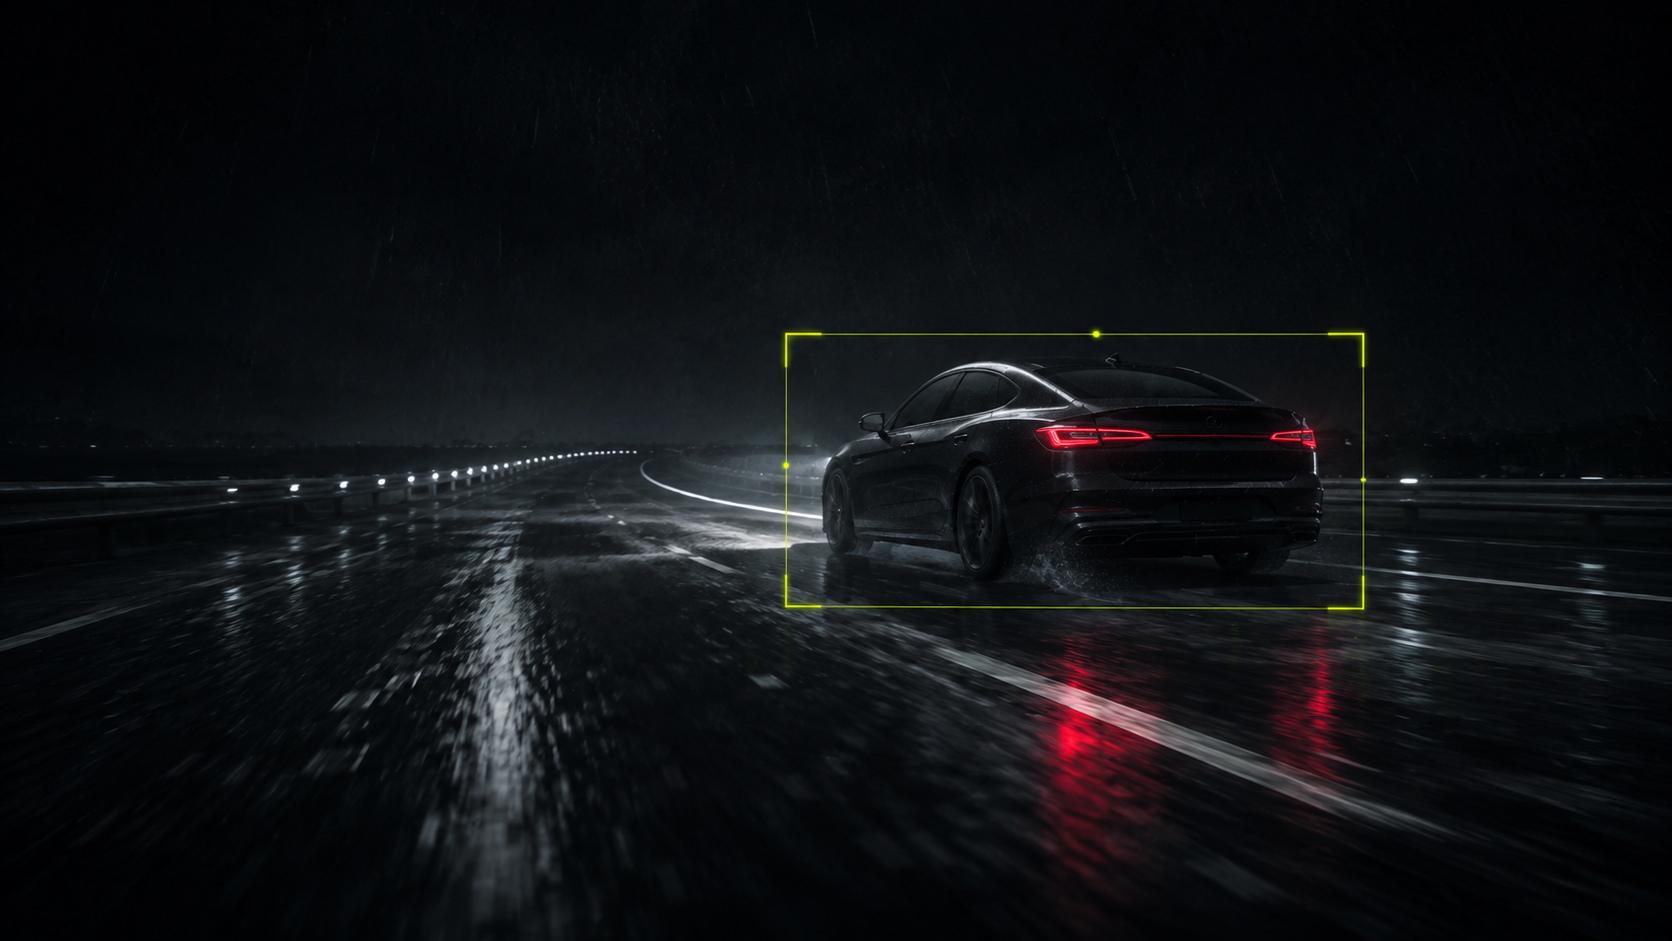
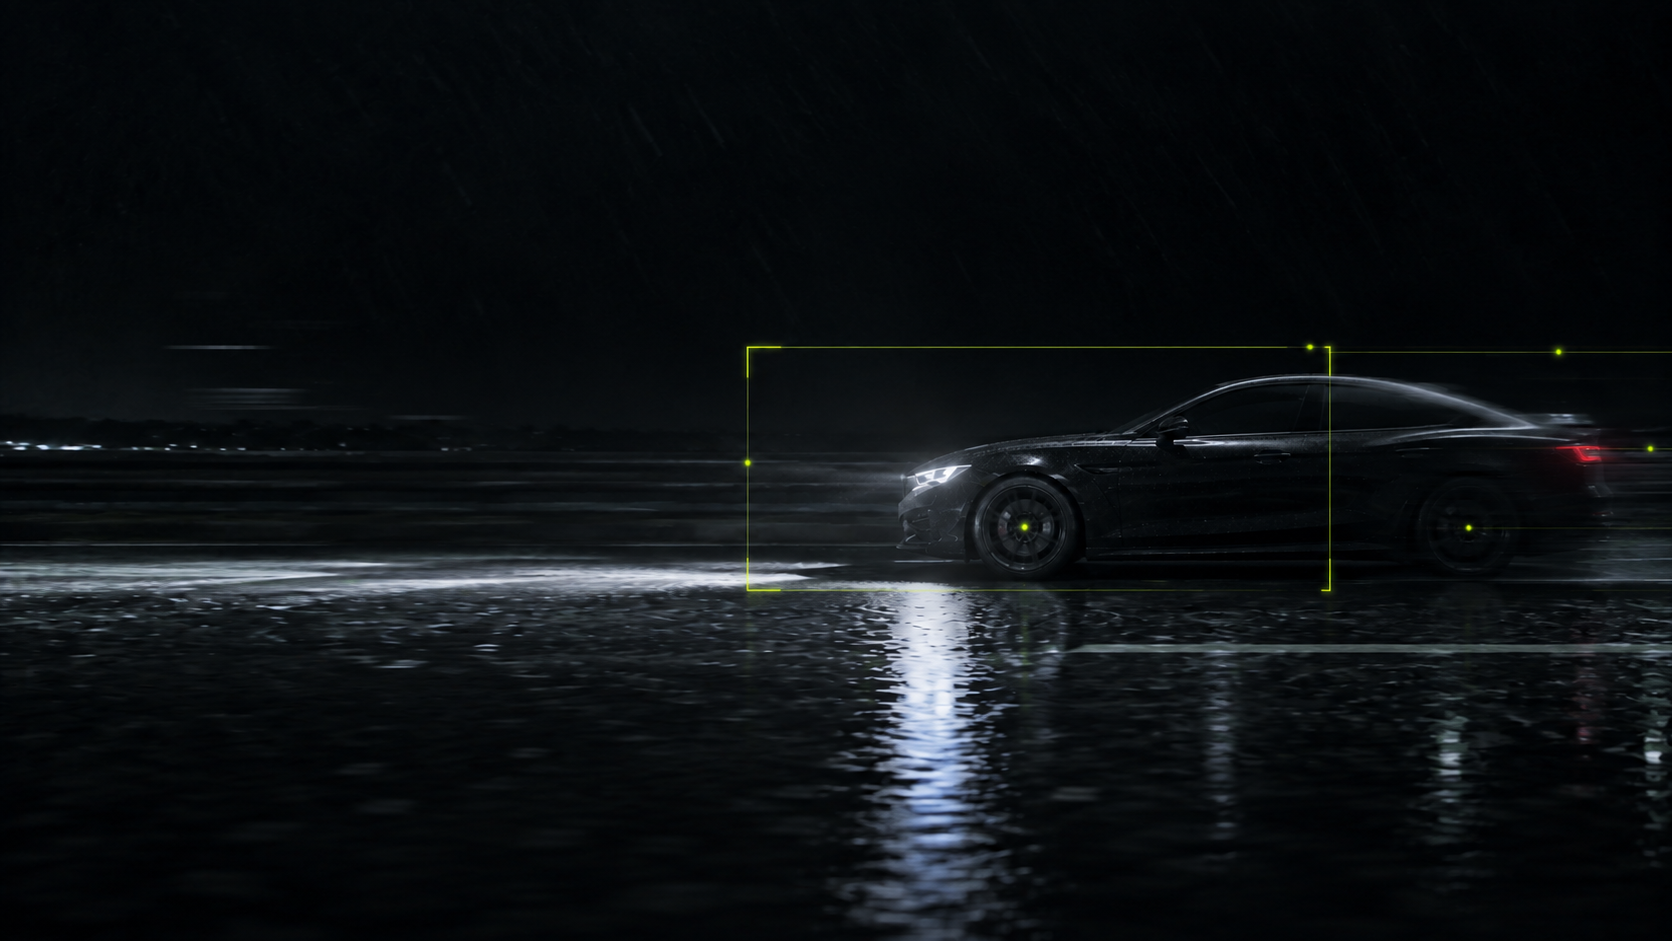
Make cinematic keyframes sequential

diff --git a/creative/linkedin-cinematic/README.md b/creative/linkedin-cinematic/README.md
@@ -1,20 +1,28 @@
 # The Last Known Frame
 
-Five eight-second cinematic sections designed as first/last-frame inputs for Google Flow and
-Veo 3. The complete sequence runs for 40 seconds.
+Five sequential eight-second cinematic sections designed as first/last-frame inputs for Google
+Flow and Veo 3. The complete sequence runs for 40 seconds and uses six unique boundary images:
+
+```text
+Clip 01: A -> B
+Clip 02: B -> C
+Clip 03: C -> D
+Clip 04: D -> E
+Clip 05: E -> F
+```
 
 ## Keyframe map
 
 | Clip | Start | End | Motion intent |
 | --- | --- | --- | --- |
 | 01 — Acquisition | `keyframes/clip-01-start.png` | `keyframes/clip-01-end.png` | Push from distant headlights to a clean tracking lock. |
-| 02 — Pursuit | `keyframes/clip-02-start.png` | `keyframes/clip-02-end.png` | Track laterally as the car outruns its bounding box. |
-| 03 — Degradation | `keyframes/clip-03-start.png` | `keyframes/clip-03-end.png` | Follow from behind as fog, glare, and a false detection appear. |
-| 04 — Lost | `keyframes/clip-04-start.png` | `keyframes/clip-04-end.png` | Follow the car into the tunnel until only failed tracking remains. |
+| 02 — Pursuit | `keyframes/clip-02-start.png` | `keyframes/clip-02-end.png` | Let the car pass camera, then whip-pan into a lateral track as it outruns the box. |
+| 03 — Degradation | `keyframes/clip-03-start.png` | `keyframes/clip-03-end.png` | Orbit behind the car as fog, glare, and a false detection appear. |
+| 04 — Lost | `keyframes/clip-04-start.png` | `keyframes/clip-04-end.png` | Pull wider as a tunnel emerges from the fog and the car disappears into it. |
 | 05 — Reconstruction | `keyframes/clip-05-start.png` | `keyframes/clip-05-end.png` | Dissolve the failed rectangle into particles that construct the logo. |
 
-`clip-04-end.png` and `clip-05-start.png` intentionally contain the same frame for a seamless
-handoff. `keyframes/contact-sheet.png` previews the complete sequence.
+Every clip end and following clip start are intentionally byte-identical for seamless Flow
+handoffs. `keyframes/contact-sheet.png` previews the complete sequence.
 
 ## Visual constants
 
